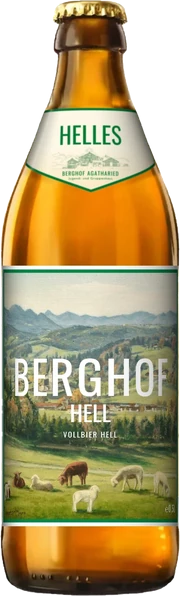
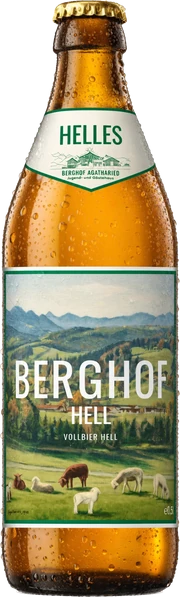
Zutaten: updated bottle photo with condensation (cutout)

diff --git a/index.html b/index.html
@@ -493,7 +493,7 @@
           <i class="etikett__raute zr1" aria-hidden="true"></i><i class="etikett__raute zr2" aria-hidden="true"></i><i class="etikett__raute zr3" aria-hidden="true"></i>
           <figure class="zutaten__flasche">
             <img class="zf__schatten" src="assets/img/flasche-schatten-320.webp" srcset="assets/img/flasche-schatten-320.webp 426w, assets/img/flasche-schatten-640.webp 852w" sizes="400px" width="426" height="159" loading="lazy" decoding="async" alt="" />
-            <img class="zf__bild" src="assets/img/flasche-360.webp" srcset="assets/img/flasche-180.webp 180w, assets/img/flasche-360.webp 360w, assets/img/flasche-540.webp 392w" sizes="(min-width: 1100px) 170px, 130px" width="360" height="1193" loading="lazy" decoding="async" alt="Eine Flasche Berghof Hell" />
+            <img class="zf__bild" src="assets/img/flasche-360.webp" srcset="assets/img/flasche-180.webp 180w, assets/img/flasche-360.webp 360w, assets/img/flasche-540.webp 578w" sizes="(min-width: 1100px) 170px, 130px" width="360" height="1193" loading="lazy" decoding="async" alt="Eine Flasche Berghof Hell" />
           </figure>
           <ul class="ingredients">
             <li class="ingredient">
